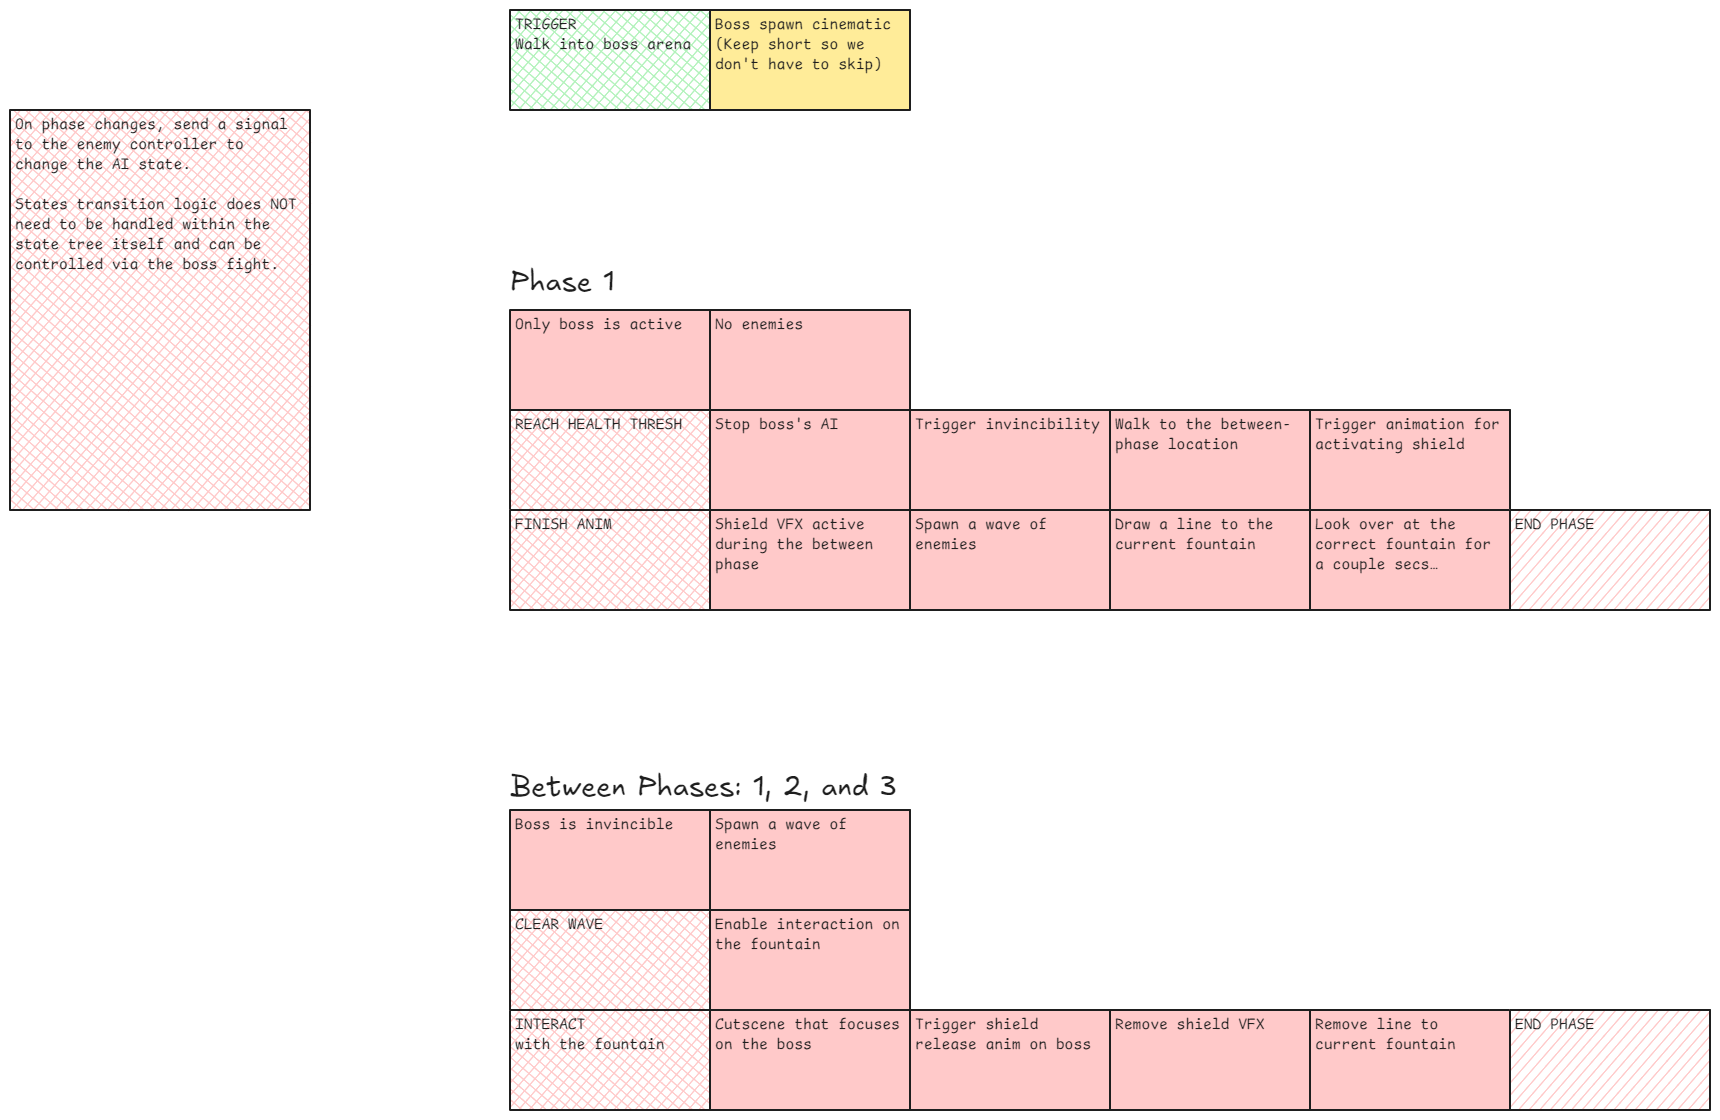
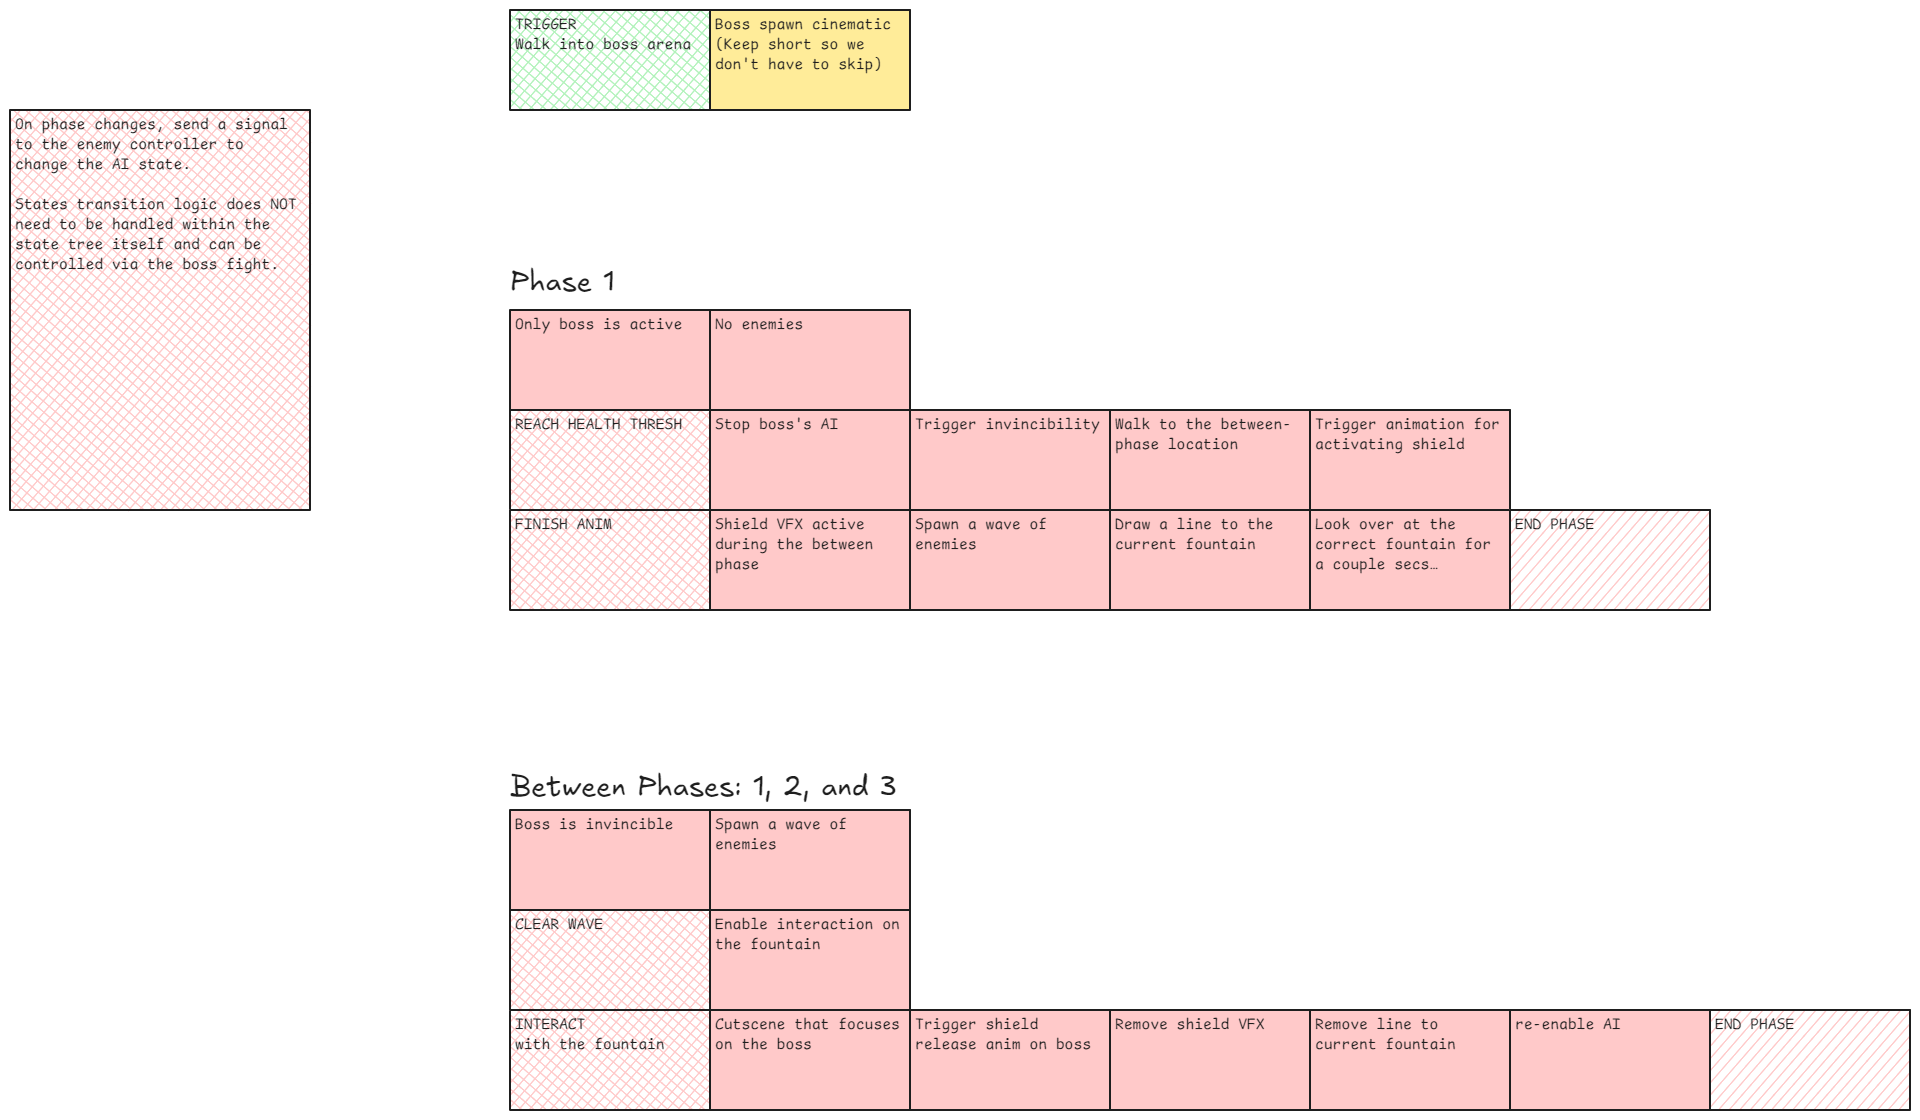
vault backup: 2026-08-10 18:18:39

diff --git a/Projects/Summer Project/Mechanics/Boss/Boss01 Graph.md b/Projects/Summer Project/Mechanics/Boss/Boss01 Graph.md
@@ -73,10 +73,10 @@ Boss is invincible ^ZVCyfWzu
 
 Spawn a wave of enemies ^lYSnM2SD
 
+re-enable AI ^vEOzhlKA
+
 %%
-
 ## Drawing
-
 ```compressed-json
[1 lines of base64/hex data omitted]
 
@@ -194,33 +194,36 @@ rLAN69IlWnF1n7edvPBA+YDF2v7Vg8u3In/u1367goJu2A/QRv3C7Hd/UF3dgd92OAA9voEg6JAoPc8a
 
[1 lines of base64/hex data omitted]
 
[2 lines of base64/hex data omitted]
 
[2 lines of base64/hex data omitted]
 
[2 lines of base64/hex data omitted]
 
[2 lines of base64/hex data omitted]
 
[2 lines of base64/hex data omitted]
 
[2 lines of base64/hex data omitted]
 
[2 lines of base64/hex data omitted]
 
[2 lines of base64/hex data omitted]
 
[2 lines of base64/hex data omitted]
 
[2 lines of base64/hex data omitted]
 
[2 lines of base64/hex data omitted]
 
[2 lines of base64/hex data omitted]
 
[2 lines of base64/hex data omitted]
 
[2 lines of base64/hex data omitted]
+
[1 lines of base64/hex data omitted]
+
[1 lines of base64/hex data omitted]
 ```
-
 %%
